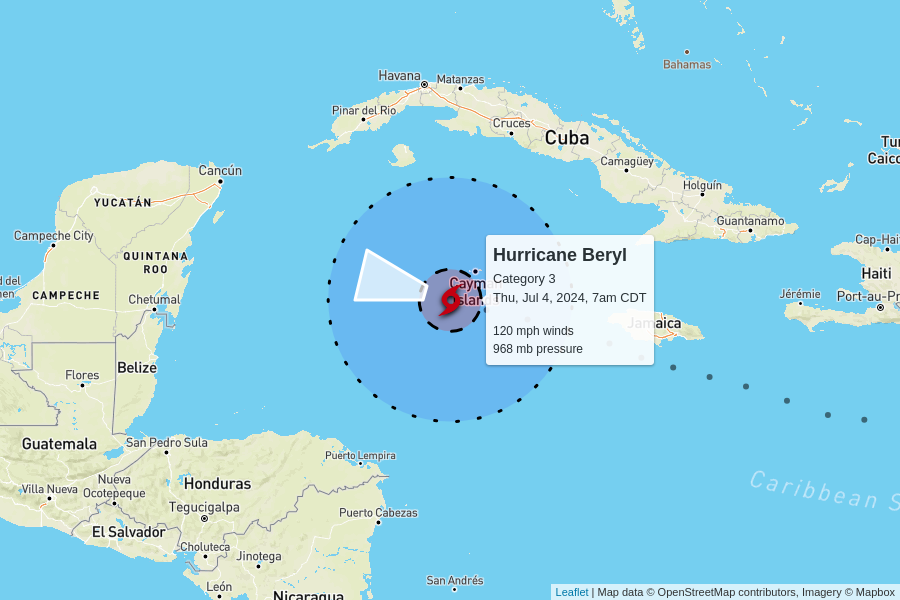
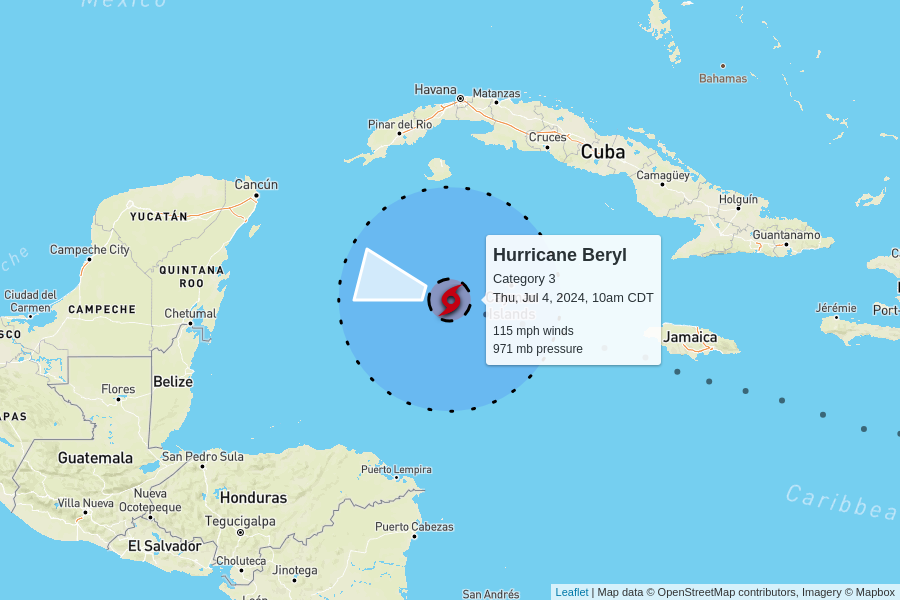
automatic update

diff --git a/docs/index.html b/docs/index.html
@@ -102,7 +102,7 @@
         <td colspan="6" class="storm category-3" >
           <h2>
             Hurricane Beryl - Category 3
-            <p class="updated">last updated <span data-time>2024-07-04T12:00:00.000Z</span></p>
+            <p class="updated">last updated <span data-time>2024-07-04T15:00:00.000Z</span></p>
           </h2>
         </td>
       </tr>
@@ -117,10 +117,10 @@
       </tr>
       <tr>
         <td class="spacer"></td>
-        <td>120 mph<br>0 mph since last update</td>
-        <td>968 mb<br>0 mb since last update</td>
+        <td>115 mph<br>-5 mph since last update</td>
+        <td>971 mb<br>+3 mb since last update</td>
         <td>
-          20 mph to the west-northwest
+          18 mph to the west-northwest
           <br/>
           <span style="display: inline-block; font-size: 1.5em; transform: rotate(285deg);">↑</span>
         </td>
